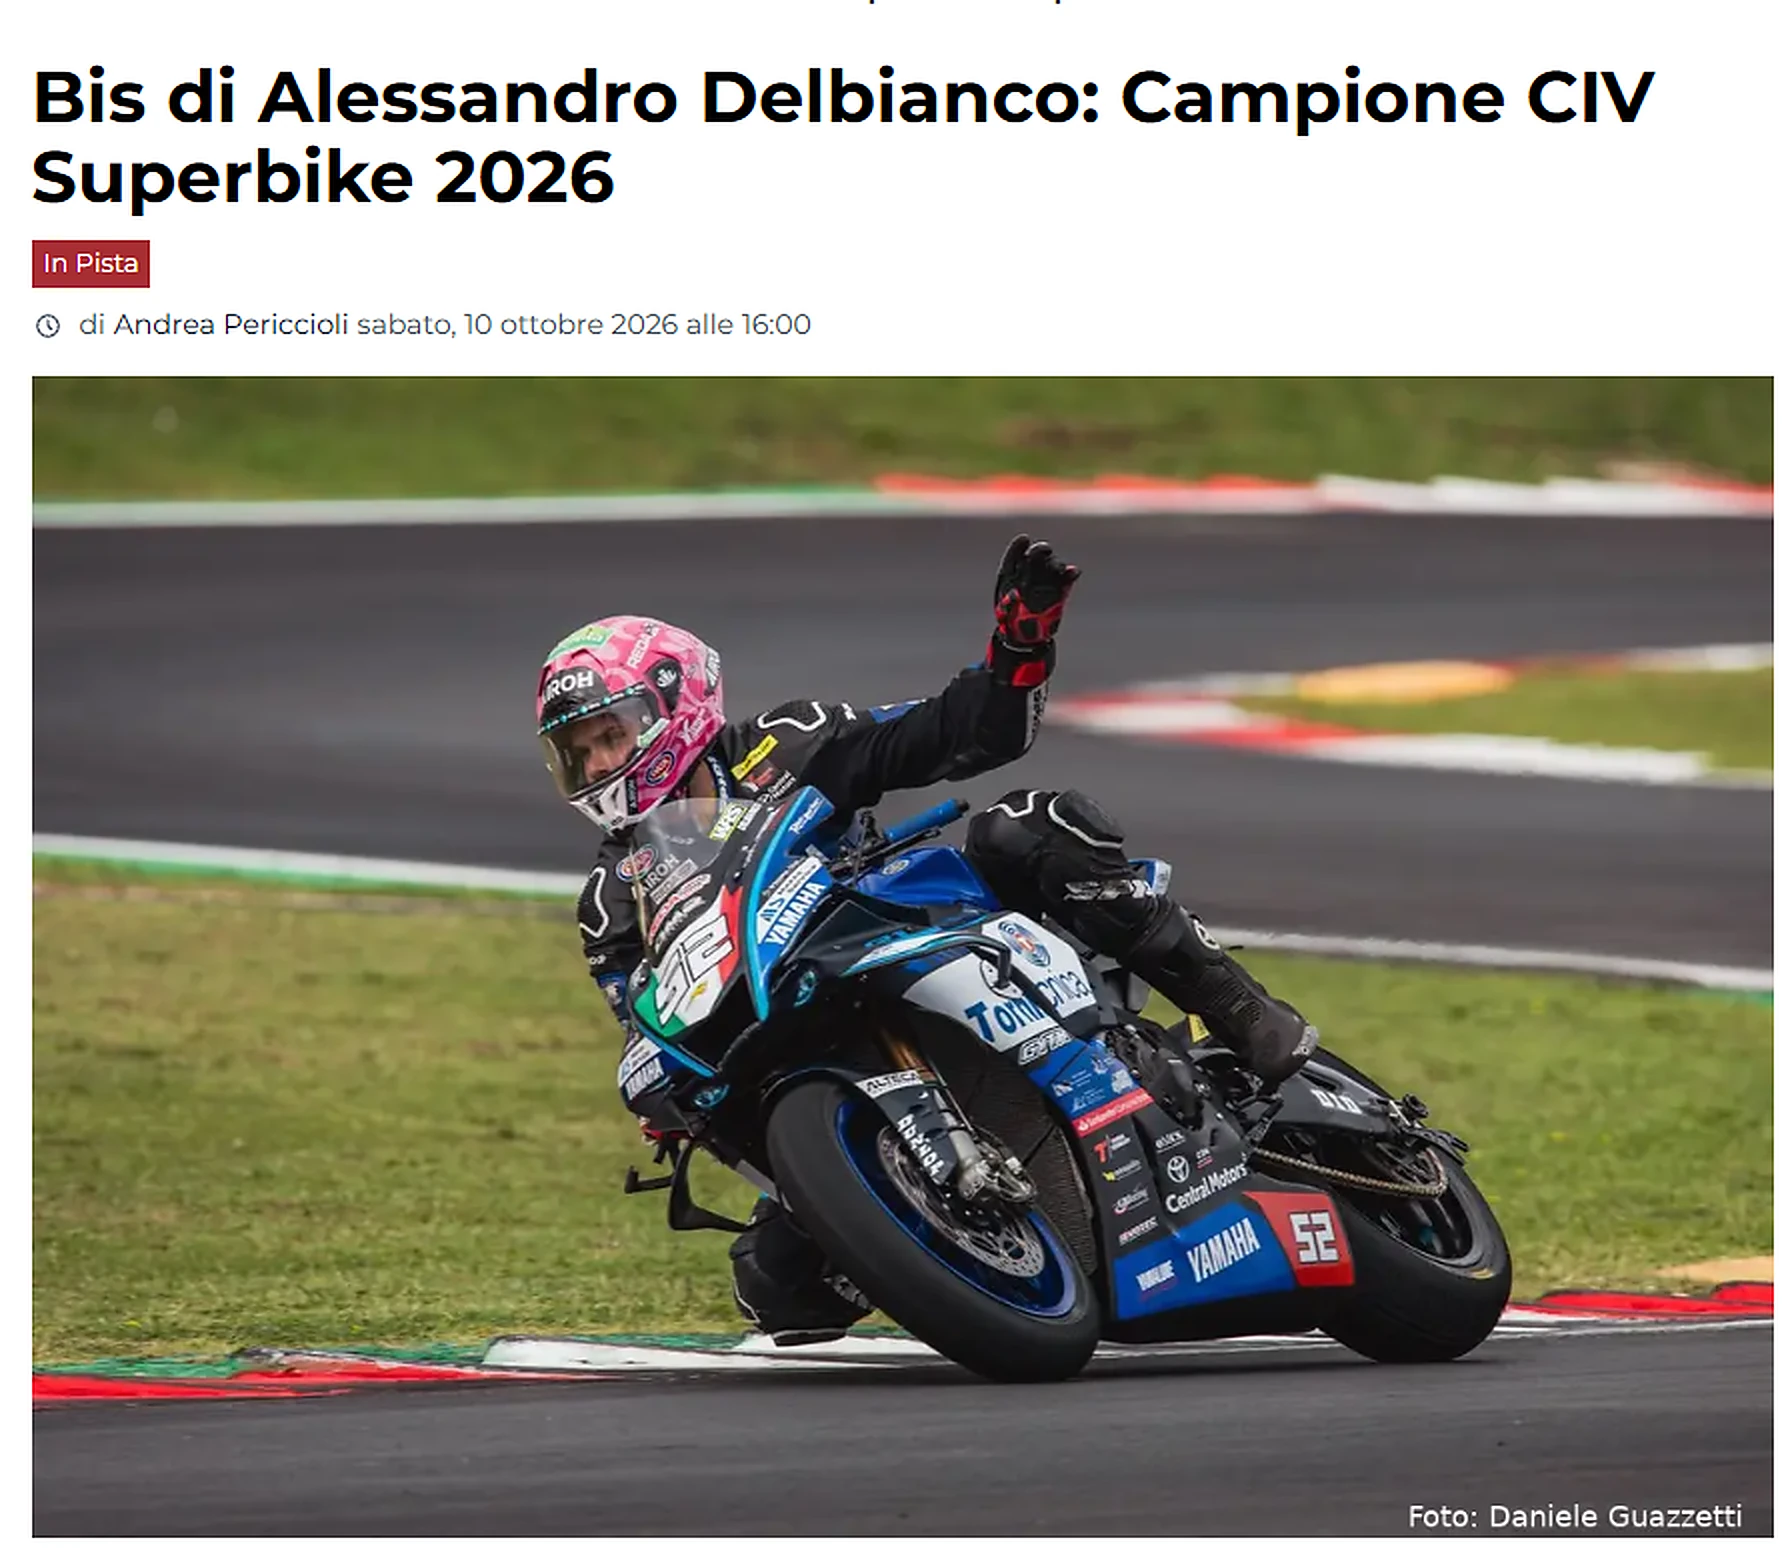
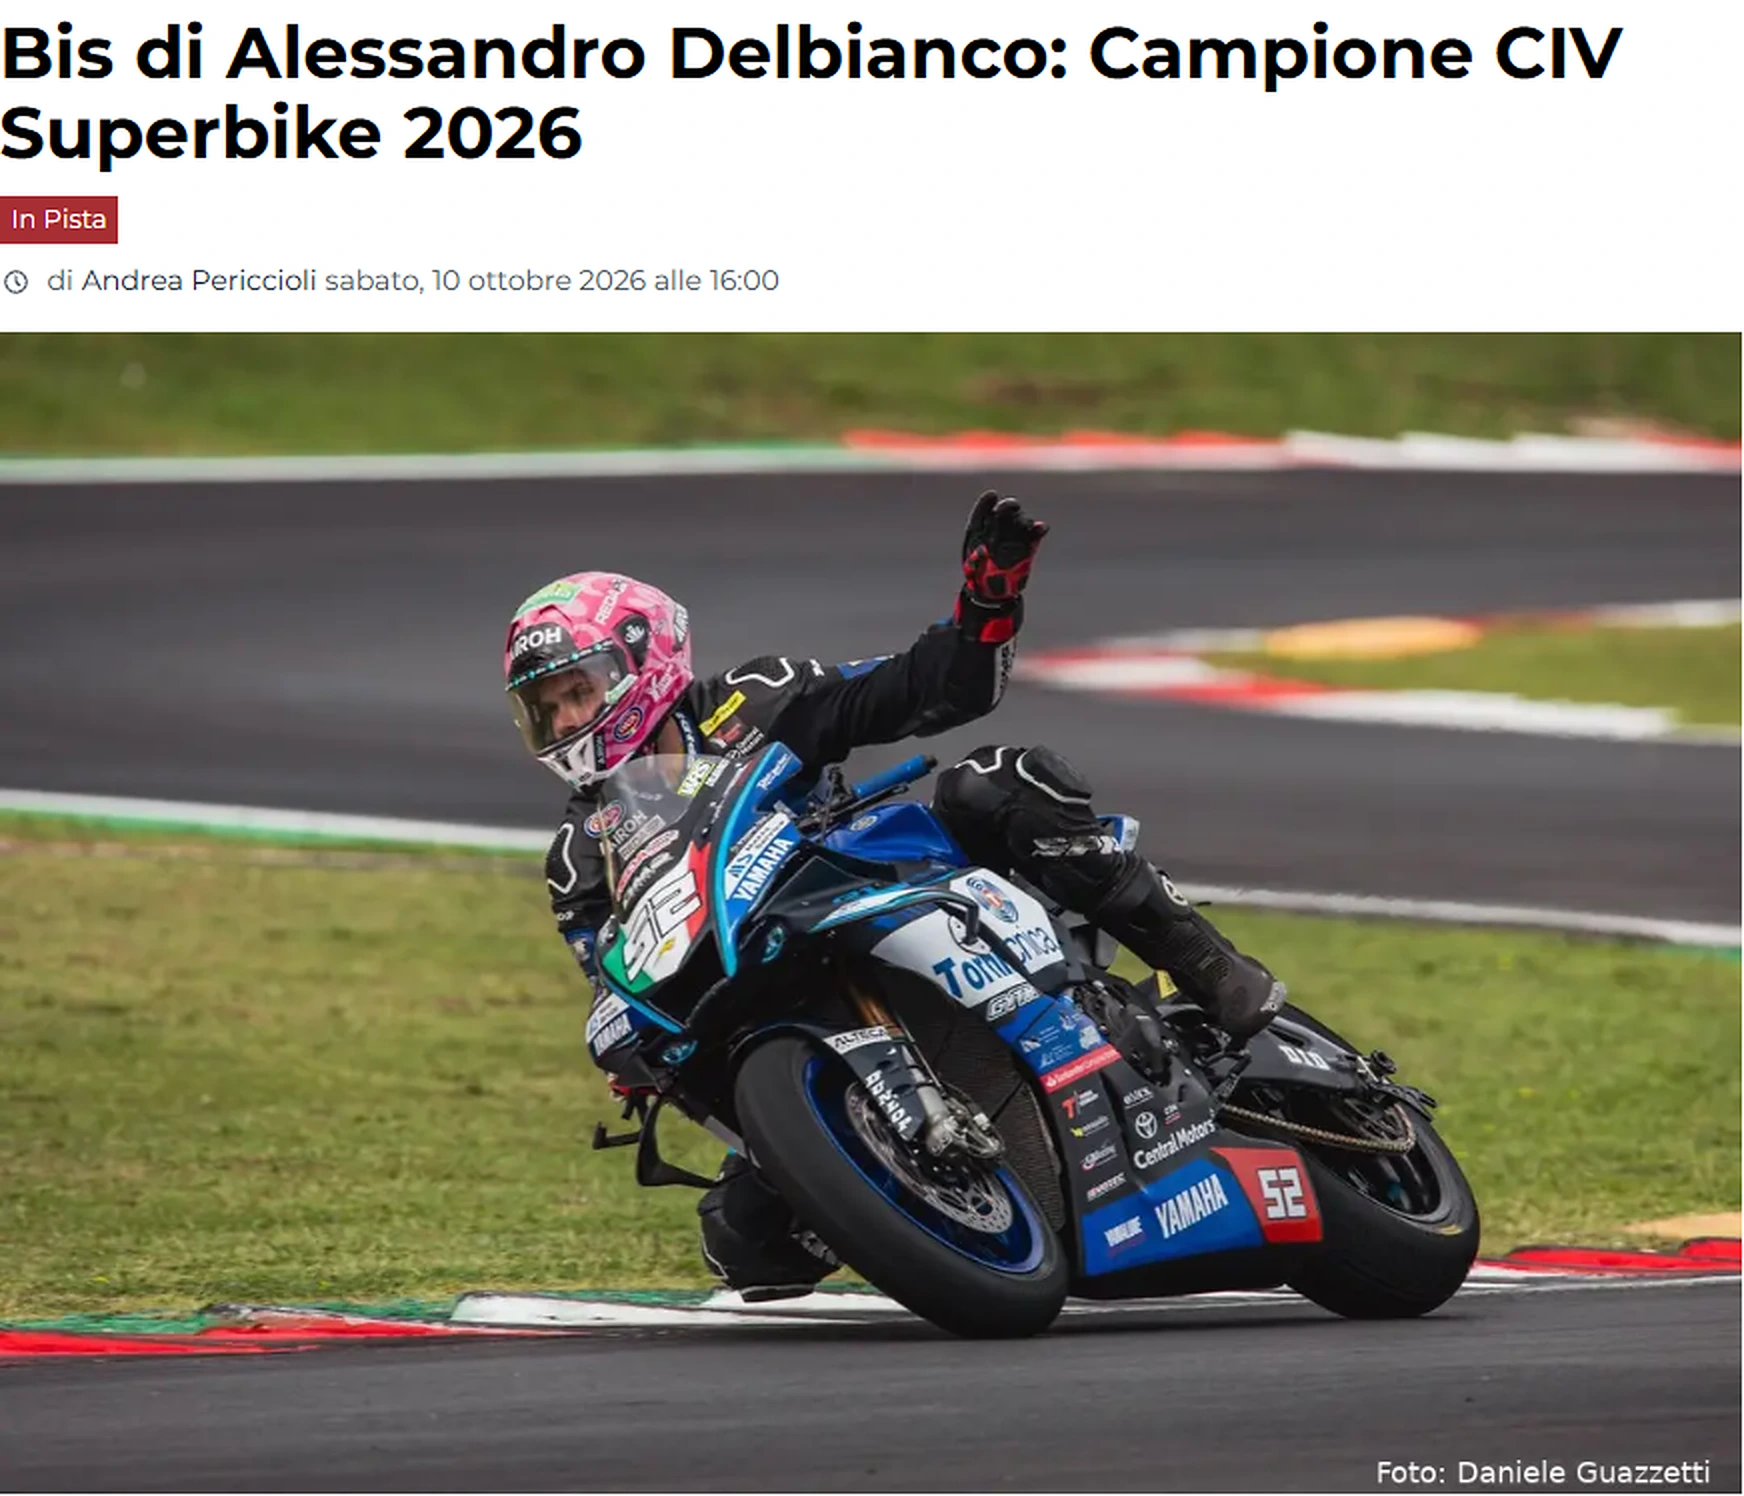
Move images into their matching service sections

diff --git a/servizi.html b/servizi.html
@@ -121,6 +121,37 @@ nav.s .nav-logo img{height:40px}
 
 .service-center{display:flex;align-items:center;justify-content:center;margin:4rem 0;position:relative;isolation:isolate}
 .service-center::before{content:'';position:absolute;width:8.5rem;height:8.5rem;border-radius:50%;background:radial-gradient(circle,rgba(173,222,0,.2),rgba(173,222,0,.07) 42%,transparent 72%);box-shadow:0 0 56px rgba(173,222,0,.12);z-index:-1;pointer-events:none;transition:transform .35s,opacity .35s}
+
+.service-center-image,.service-center-gallery{margin:clamp(2.5rem,5vw,4rem) 0}
+.service-center-image::before,.service-center-gallery::before{display:none}
+.service-story-image{
+  display:block;width:min(100%,580px);height:auto;flex:0 1 auto;
+  border:1px solid rgba(173,222,0,.38);border-radius:1rem;background:#fff;
+  box-shadow:0 24px 64px rgba(0,0,0,.38),0 0 34px rgba(173,222,0,.11);
+  transition:transform .35s,box-shadow .35s;
+}
+.service-center-image:hover .service-story-image{
+  transform:translateY(-3px);box-shadow:0 28px 68px rgba(0,0,0,.46),0 0 40px rgba(173,222,0,.17);
+}
+.service-image-gallery{
+  display:grid;width:min(100%,1100px);grid-template-columns:repeat(2,minmax(0,1fr));
+  gap:clamp(.8rem,2vw,1.5rem);align-items:stretch;
+}
+.service-image-frame{
+  display:grid;place-items:center;min-width:0;aspect-ratio:16/7;overflow:hidden;
+  padding:.45rem;border:1px solid rgba(173,222,0,.32);border-radius:1rem;
+  background:radial-gradient(ellipse at center,rgba(173,222,0,.075),transparent 70%),#080b18;
+  box-shadow:0 18px 42px rgba(0,0,0,.26),0 0 26px rgba(173,222,0,.045);
+  transition:transform .3s,border-color .3s,box-shadow .3s;
+}
+.service-image-frame:hover{
+  transform:translateY(-3px);border-color:rgba(173,222,0,.65);
+  box-shadow:0 22px 48px rgba(0,0,0,.34),0 0 28px rgba(173,222,0,.11);
+}
+.service-image-frame img{display:block;width:100%;height:100%;object-fit:contain;border-radius:.6rem}
+@media(max-width:760px){.service-image-gallery{grid-template-columns:1fr}.service-image-frame{aspect-ratio:16/8}}
+@media(max-width:560px){.service-story-image{width:min(100%,480px);border-radius:.75rem}.service-image-frame{border-radius:.75rem}}
+@media(prefers-reduced-motion:reduce){.service-story-image,.service-image-frame{transition:none}}
 .service-icon{display:grid;place-items:center;position:relative;width:6.5rem;height:6.5rem;border:1px solid rgba(173,222,0,.45);border-radius:1.8rem;background:linear-gradient(145deg,rgba(173,222,0,.2),rgba(173,222,0,.025) 62%);color:var(--p);font-size:3rem;filter:drop-shadow(0 0 18px rgba(173,222,0,.42));transform:rotate(-5deg);transition:transform .35s,filter .35s,background .35s}
 .service-icon::before{content:'';position:absolute;inset:0;border-radius:inherit;background:linear-gradient(135deg,rgba(255,255,255,.14),transparent 45%);pointer-events:none;z-index:-1}
 .service-icon::after{content:'';position:absolute;inset:-.55rem;border:1px solid rgba(173,222,0,.18);border-radius:2rem;transform:rotate(9deg);pointer-events:none;z-index:-1;transition:transform .35s,border-color .35s}
@@ -139,106 +170,6 @@ nav.s .nav-logo img{height:40px}
 .point:hover h4{color:#C5FF18}
 .point p{font-size:.9rem;color:var(--dim2);line-height:1.6}
 
-.press-feature{
-  display:grid;grid-template-columns:minmax(0,1.12fr) minmax(280px,.88fr);
-  margin-top:clamp(3rem,6vw,5rem);overflow:hidden;
-  border:1px solid rgba(255,255,255,.1);border-radius:1.1rem;
-  background:linear-gradient(130deg,rgba(173,222,0,.07),rgba(13,13,20,.96) 38%,#09090E);
-  box-shadow:0 24px 64px rgba(0,0,0,.3),0 0 36px rgba(173,222,0,.045);
-}
-.press-visual{min-width:0;margin:0;background:#f7f7f7}
-.press-visual>a{display:block;overflow:hidden}
-.press-visual img{
-  display:block;width:100%;height:auto;aspect-ratio:1.14;object-fit:cover;
-  transition:transform .55s cubic-bezier(.2,.75,.25,1);
-}
-.press-visual>a:hover img{transform:scale(1.018)}
-.press-caption{
-  display:flex;justify-content:space-between;gap:1rem;padding:.8rem 1rem;
-  color:#5D5B66;background:#fff;font-size:.7rem;font-weight:600;letter-spacing:.06em;
-  text-transform:uppercase;
-}
-.press-copy{
-  display:flex;flex-direction:column;justify-content:center;align-items:flex-start;
-  padding:clamp(1.6rem,4vw,3.5rem);border-left:1px solid rgba(255,255,255,.09);
-}
-.press-eyebrow{
-  display:inline-flex;align-items:center;gap:.55rem;margin-bottom:1.25rem;
-  color:var(--p);font-size:.65rem;font-weight:700;letter-spacing:.16em;text-transform:uppercase;
-}
-.press-copy h3{
-  max-width:520px;margin:0 0 1rem;color:var(--snow);
-  font-family:'Barlow Condensed',sans-serif;font-size:clamp(1.8rem,3.2vw,3rem);
-  font-weight:800;line-height:.98;text-transform:uppercase;
-}
-.press-copy p{max-width:470px;margin:0 0 1.65rem;color:var(--dim2);font-size:.92rem;line-height:1.8}
-.press-article-link{
-  display:inline-flex;align-items:center;gap:.65rem;padding:.8rem 0;
-  border-bottom:1px solid rgba(173,222,0,.5);color:var(--snow);
-  font-size:.75rem;font-weight:700;letter-spacing:.08em;text-transform:uppercase;
-  transition:color .2s,border-color .2s,gap .2s;
-}
-.press-article-link i{color:var(--p);font-size:.72rem}
-.press-article-link:hover{gap:.85rem;color:var(--p);border-color:var(--p)}
-@media(max-width:760px){
-  .press-feature{grid-template-columns:1fr}
-  .press-copy{border-left:0;border-top:1px solid rgba(255,255,255,.09)}
-}
-@media(prefers-reduced-motion:reduce){.press-visual img,.press-article-link{transition:none}}
-
-.sponsor-case-studies{
-  margin-top:clamp(3.5rem,7vw,5.5rem);padding:clamp(1.25rem,3vw,2rem);
-  border:1px solid rgba(173,222,0,.18);border-radius:1.1rem;
-  background:radial-gradient(ellipse at 5% 0%,rgba(173,222,0,.07),transparent 45%),linear-gradient(145deg,rgba(255,255,255,.025),rgba(255,255,255,.008));
-}
-.sponsor-case-heading{max-width:780px;margin:0 0 1.75rem}
-.sponsor-case-kicker{
-  display:flex;align-items:center;gap:.6rem;margin-bottom:.7rem;
-  color:var(--p);font-size:.65rem;font-weight:700;letter-spacing:.17em;text-transform:uppercase;
-}
-.sponsor-case-kicker::before{content:'';width:1.2rem;height:1px;background:var(--p)}
-.sponsor-case-heading h3{
-  margin:0 0 .65rem;color:var(--snow);
-  font-family:'Barlow Condensed',sans-serif;font-size:clamp(1.7rem,3vw,2.5rem);
-  font-weight:800;line-height:1;text-transform:uppercase;
-}
-.sponsor-case-heading p{max-width:680px;color:var(--dim2);font-size:.9rem;line-height:1.75}
-.sponsor-case-grid{display:grid;grid-template-columns:repeat(2,minmax(0,1fr));gap:clamp(1rem,2.2vw,1.75rem);align-items:stretch}
-.sponsor-case-card{
-  min-width:0;overflow:hidden;display:flex;flex-direction:column;
-  border:1px solid rgba(255,255,255,.1);border-radius:.9rem;
-  background:linear-gradient(180deg,rgba(13,13,20,.96),rgba(7,7,11,.98));
-  box-shadow:0 14px 36px rgba(0,0,0,.22);
-  transition:transform .3s,border-color .3s,box-shadow .3s;
-}
-.sponsor-case-card:hover{
-  transform:translateY(-4px);border-color:rgba(173,222,0,.42);
-  box-shadow:0 20px 42px rgba(0,0,0,.3),0 0 22px rgba(173,222,0,.07);
-}
-.sponsor-case-media{
-  display:grid;place-items:center;aspect-ratio:16/7;overflow:hidden;
-  padding:.4rem;background:radial-gradient(ellipse at center,rgba(173,222,0,.08),transparent 70%),#080b18;
-  border-bottom:1px solid rgba(173,222,0,.2);
-}
-.sponsor-case-media img{
-  display:block;width:100%;height:100%;object-fit:contain;
-  transition:transform .45s cubic-bezier(.2,.75,.25,1);
-}
-.sponsor-case-card:hover .sponsor-case-media img{transform:scale(1.018)}
-.sponsor-case-caption{display:flex;align-items:flex-start;gap:.9rem;padding:1rem 1.15rem 1.2rem}
-.sponsor-case-number{
-  display:grid;place-items:center;flex:0 0 2rem;width:2rem;height:2rem;
-  border:1px solid rgba(173,222,0,.4);border-radius:50%;color:var(--p);
-  font-size:.68rem;font-weight:700;letter-spacing:.04em;
-}
-.sponsor-case-copy h4{
-  margin:.08rem 0 .3rem;color:var(--snow);
-  font-family:'Barlow Condensed',sans-serif;font-size:1.15rem;font-weight:800;
-  line-height:1.1;text-transform:uppercase;
-}
-.sponsor-case-copy p{color:var(--dim2);font-size:.8rem;line-height:1.6}
-@media(max-width:760px){.sponsor-case-grid{grid-template-columns:1fr}.sponsor-case-media{aspect-ratio:16/8}}
-@media(prefers-reduced-motion:reduce){.sponsor-case-card,.sponsor-case-media img{transition:none}}
 
 @media(prefers-reduced-motion:reduce){.service-icon,.service-center::before,.service-icon::after,.point-icon,.point-icon::after{transition:none}}
 @media(max-width:560px){.service-center{margin:3rem 0}.service-icon{width:5.5rem;height:5.5rem;font-size:2.5rem}.point-icon{width:3.75rem;height:3.75rem;font-size:1.45rem}}
@@ -366,8 +297,8 @@ footer::before{
   <div class="service-inner">
     <h2 class="service-title">Creiamo interesse intorno a te.<br><em>Siamo noi a creare la notizia</em></h2>
     <p class="service-intro">Non è il tuo nome sui giornali che attira gli sponsor. È la storia dietro quel nome. Costruiamo narrativa credibile intorno a te: da semplice pilota a figura mediatica rilevante.</p>
-    <div class="service-center">
-      <i class="fas fa-newspaper service-icon"></i>
+    <div class="service-center service-center-image">
+      <img class="service-story-image" src="images/delbianco-civ-article.webp" alt="Articolo di Corse di Moto sulla vittoria di Alessandro Delbianco nel CIV Superbike 2026" width="1744" height="1496" loading="lazy" decoding="async">
     </div>
     <div class="service-points">
       <div class="point">
@@ -387,20 +318,7 @@ footer::before{
         <p>Strategia di posizionamento. Diventi personaggio, non solo pilota.</p>
       </div>
     </div>
-    <article class="press-feature" aria-labelledby="press-feature-title">
-      <figure class="press-visual">
-        <a href="https://www.corsedimoto.com/in-pista/bis-di-alessandro-delbianco-campione-civ-superbike-2026" target="_blank" rel="noopener noreferrer" aria-label="Apri l'articolo originale su Corse di Moto">
-          <img src="images/delbianco-civ-article.webp" alt="Articolo di Corse di Moto: Bis di Alessandro Delbianco, Campione CIV Superbike 2026, con la foto del pilota in pista" width="1782" height="1560" loading="lazy" decoding="async">
-        </a>
-        <figcaption class="press-caption"><span>Corse di Moto</span><span>10 ottobre 2026</span></figcaption>
-      </figure>
-      <div class="press-copy">
-        <span class="press-eyebrow"><i class="fas fa-bolt" aria-hidden="true"></i> Rassegna stampa · CIV Superbike</span>
-        <h3 id="press-feature-title">Un risultato in pista diventa una storia da raccontare.</h3>
-        <p>Il bis tricolore di Alessandro Delbianco raccontato da Corse di Moto: una notizia concreta che dà spazio al percorso, al team e ai partner che lo sostengono.</p>
-        <a class="press-article-link" href="https://www.corsedimoto.com/in-pista/bis-di-alessandro-delbianco-campione-civ-superbike-2026" target="_blank" rel="noopener noreferrer">Leggi l’articolo originale <i class="fas fa-arrow-up-right-from-square" aria-hidden="true"></i></a>
-      </div>
-    </article>
+    
   </div>
 </section>
 
@@ -409,8 +327,11 @@ footer::before{
   <div class="service-inner">
     <h2 class="service-title">Creiamo la presentazione giusta<br><em>Per ogni sponsor</em></h2>
     <p class="service-intro">Ogni sponsor è diverso. Chi cerca visibilità, chi experience, chi ROI. Noi creiamo presentazioni, brochure e materiali ad hoc: su misura alle sue esigenze, nel suo linguaggio, con i numeri che lo convincono.</p>
-    <div class="service-center">
-      <i class="fas fa-handshake service-icon"></i>
+    <div class="service-center service-center-gallery">
+      <div class="service-image-gallery">
+        <div class="service-image-frame"><img src="images/civ-superbike-2027.webp" alt="Presentazione CIV Superbike con piloti, case costruttrici e opportunità per i partner" width="1762" height="747" loading="lazy" decoding="async"></div>
+        <div class="service-image-frame"><img src="images/civ-sponsorship-impact.webp" alt="Presentazione del valore per gli sponsor del Dunlop CIV con dati di audience e copertura media" width="1762" height="631" loading="lazy" decoding="async"></div>
+      </div>
     </div>
     <div class="service-points">
       <div class="point">
@@ -430,33 +351,7 @@ footer::before{
         <p>Follow-up design: infografiche, case studies, report. Tutto ciò che serve dopo la firma per mantenerlo felice.</p>
       </div>
     </div>
-    <section class="sponsor-case-studies" aria-labelledby="sponsor-cases-title">
-      <div class="sponsor-case-heading">
-        <span class="sponsor-case-kicker">Esempi di presentazione</span>
-        <h3 id="sponsor-cases-title">Il progetto, raccontato in due immagini.</h3>
-        <p>Dal contesto sportivo ai dati di visibilità: informazioni e opportunità diventano una presentazione chiara per chi valuta una partnership.</p>
-      </div>
-      <div class="sponsor-case-grid">
-        <figure class="sponsor-case-card">
-          <div class="sponsor-case-media">
-            <img src="images/civ-superbike-2027.webp" alt="Presentazione CIV Superbike 2027 con dati su piloti, case costruttrici e copertura mediatica" width="1762" height="747" loading="lazy" decoding="async">
-          </div>
-          <figcaption class="sponsor-case-caption">
-            <span class="sponsor-case-number">01</span>
-            <div class="sponsor-case-copy"><h4>Il contesto sportivo</h4><p>Campionato, protagonisti e opportunità per i partner.</p></div>
-          </figcaption>
-        </figure>
-        <figure class="sponsor-case-card">
-          <div class="sponsor-case-media">
-            <img src="images/civ-sponsorship-impact.webp" alt="Presentazione del valore per gli sponsor del Dunlop CIV 2025 con dati su media, spettatori e copertura digitale" width="1762" height="631" loading="lazy" decoding="async">
-          </div>
-          <figcaption class="sponsor-case-caption">
-            <span class="sponsor-case-number">02</span>
-            <div class="sponsor-case-copy"><h4>I numeri per i partner</h4><p>Audience, copertura media e valore digitale organizzati in un quadro immediato.</p></div>
-          </figcaption>
-        </figure>
-      </div>
-    </section>
+    
   </div>
 </section>
 
